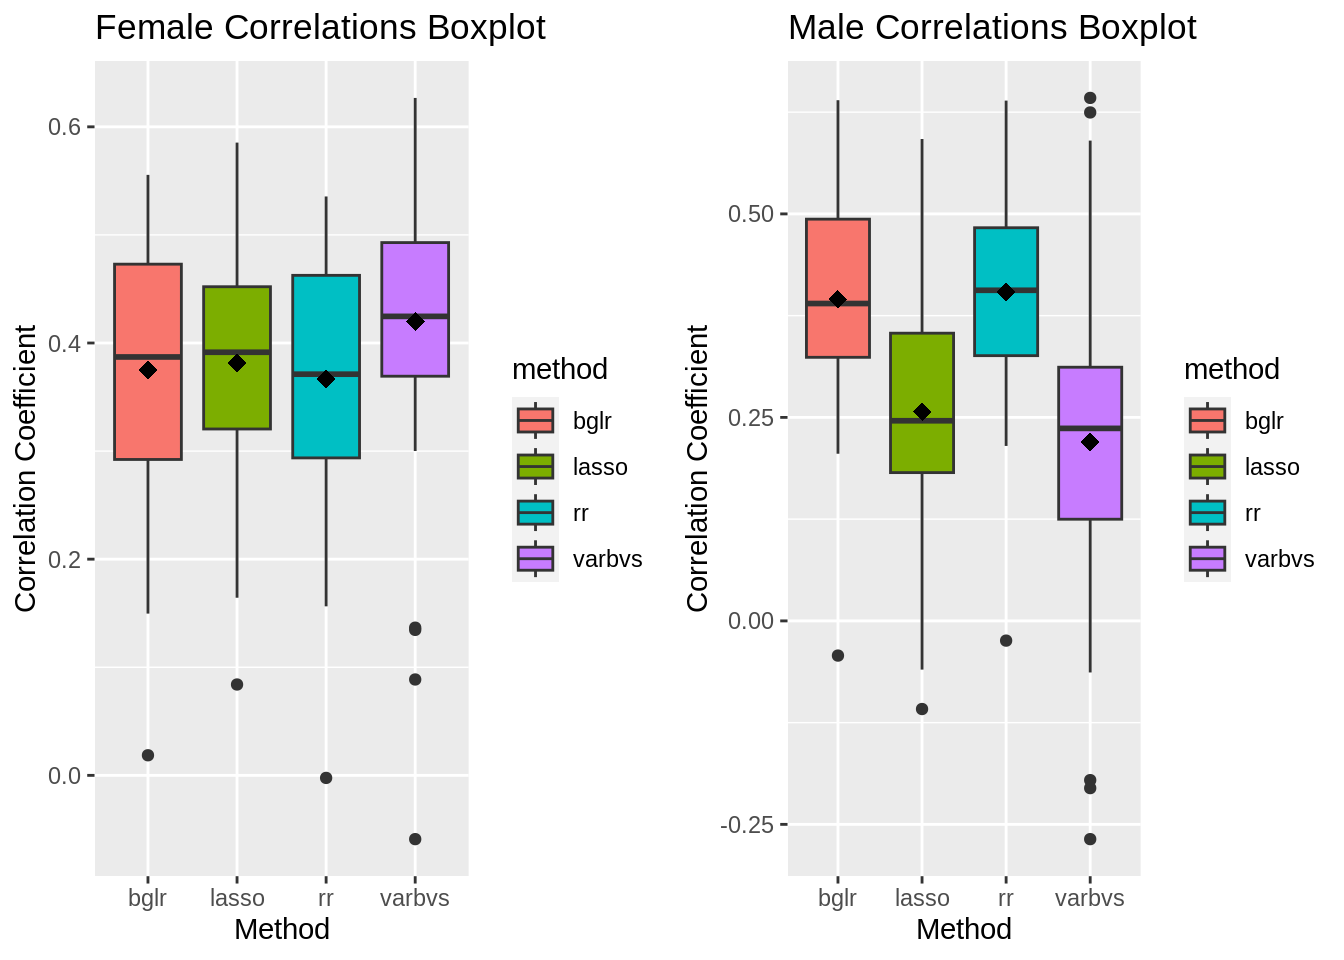
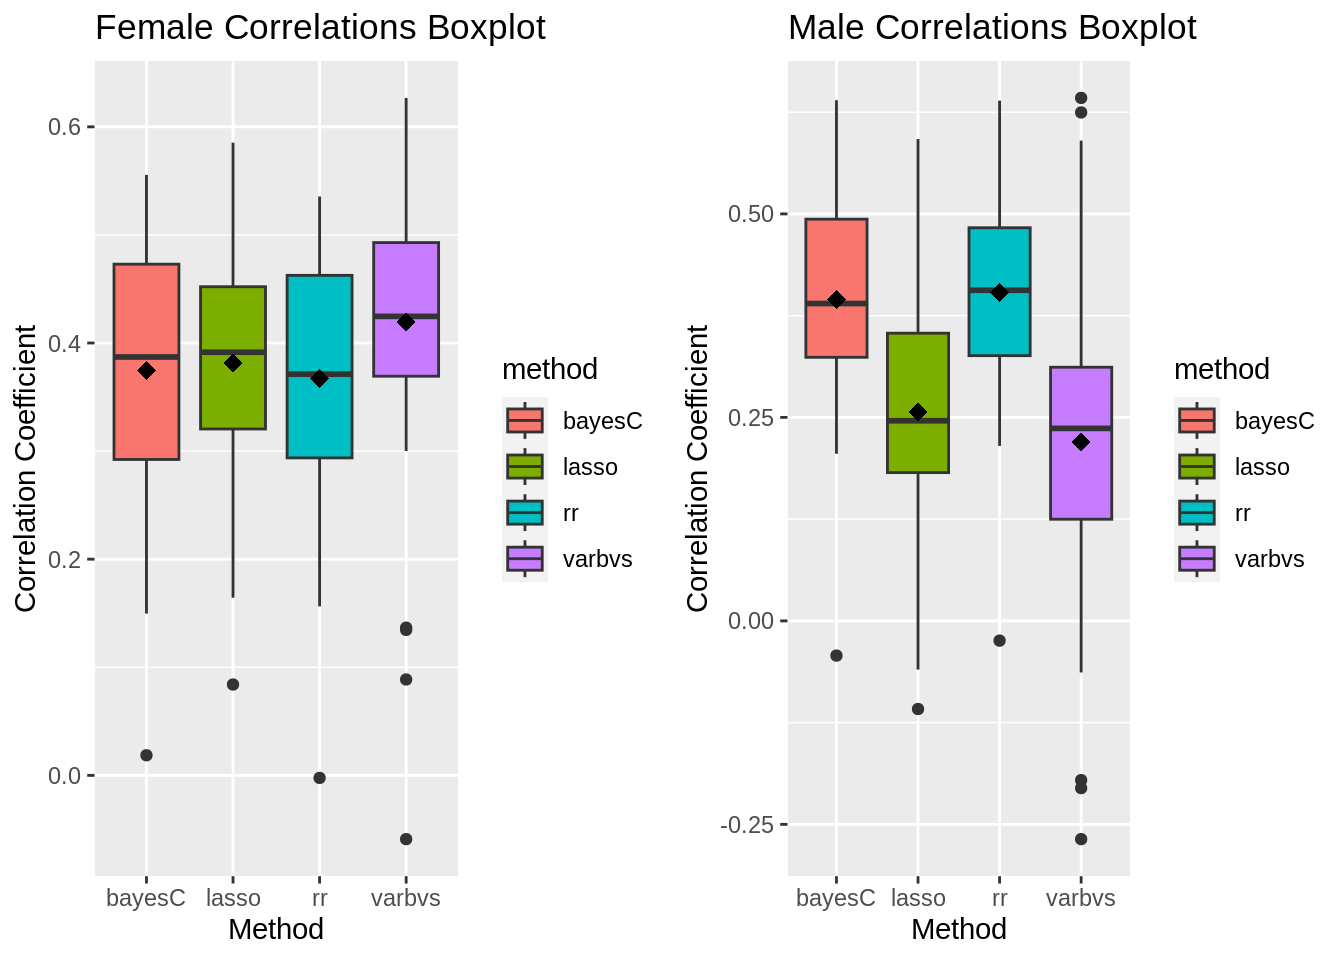
Build site.

diff --git a/docs/methodPred.html b/docs/methodPred.html
@@ -529,15 +529,15 @@ project makes it easier to run your code on other machines.</p>
 <div class="panel panel-default">
 <div class="panel-heading">
 <p class="panel-title">
-<a data-toggle="collapse" data-parent="#workflowr-checks" href="#strongRepositoryversionstrongahrefhttpsgithubcomnklimkodgrpstarvetree39219b9c4e4a1c0cbd74468076075f1bad597b52targetblank39219b9a">
+<a data-toggle="collapse" data-parent="#workflowr-checks" href="#strongRepositoryversionstrongahrefhttpsgithubcomnklimkodgrpstarvetree96f8bdda99f114c71a0ad356c5e1218a01927962targetblank96f8bdda">
 <span class="glyphicon glyphicon-ok text-success"
 aria-hidden="true"></span> <strong>Repository version:</strong>
-<a href="https://github.com/nklimko/dgrp-starve/tree/39219b9c4e4a1c0cbd74468076075f1bad597b52" target="_blank">39219b9</a>
+<a href="https://github.com/nklimko/dgrp-starve/tree/96f8bdda99f114c71a0ad356c5e1218a01927962" target="_blank">96f8bdd</a>
 </a>
 </p>
 </div>
 <div
[2 lines of base64/hex data omitted]
 class="panel-collapse collapse">
 <div class="panel-body">
 <p>
@@ -547,7 +547,7 @@ reproducibility.
 </p>
 <p>
 The results in this page were generated with repository version
-<a href="https://github.com/nklimko/dgrp-starve/tree/39219b9c4e4a1c0cbd74468076075f1bad597b52" target="_blank">39219b9</a>.
+<a href="https://github.com/nklimko/dgrp-starve/tree/96f8bdda99f114c71a0ad356c5e1218a01927962" target="_blank">96f8bdd</a>.
 See the <em>Past versions</em> tab to see a history of the changes made
 to the R Markdown and HTML files.
 </p>
@@ -688,6 +688,40 @@ Message
 </tr>
 </thead>
 <tbody>
+<tr>
+<td>
+Rmd
+</td>
+<td>
+<a href="https://github.com/nklimko/dgrp-starve/blob/96f8bdda99f114c71a0ad356c5e1218a01927962/analysis/methodPred.Rmd" target="_blank">96f8bdd</a>
+</td>
+<td>
+nklimko
+</td>
+<td>
+2023-04-19
+</td>
+<td>
+wflow_publish("analysis/methodPred.Rmd")
+</td>
+</tr>
+<tr>
+<td>
+html
+</td>
+<td>
+<a href="https://rawcdn.githack.com/nklimko/dgrp-starve/057e7acb5918e16c579988a82510db84018fbb0a/docs/methodPred.html" target="_blank">057e7ac</a>
+</td>
+<td>
+nklimko
+</td>
+<td>
+2023-04-19
+</td>
+<td>
+Build site.
+</td>
+</tr>
 <tr>
 <td>
 Rmd
@@ -895,7 +929,7 @@ varbvs &lt;- readRDS(&quot;snake/data/2_cor/varbvs_f_starvation.Rds&quot;)
 
 temp &lt;- c(varbvs, lasso, rr, bglr)
 
-label &lt;- c(rep(&quot;varbvs&quot;, iter), rep(&quot;lasso&quot;, iter), rep(&quot;rr&quot;, iter), rep(&quot;bglr&quot;, iter)) 
+label &lt;- c(rep(&quot;varbvs&quot;, iter), rep(&quot;lasso&quot;, iter), rep(&quot;rr&quot;, iter), rep(&quot;bayesC&quot;, iter)) 
 
 data &lt;- data.table(cor=as.numeric(temp), method=label)
 
@@ -913,7 +947,7 @@ rr &lt;- readRDS(&quot;snake/data/2_cor/rr_m_starvation.Rds&quot;)
 varbvs &lt;- readRDS(&quot;snake/data/2_cor/varbvs_m_starvation.Rds&quot;)
 
 temp &lt;- c(varbvs, lasso, rr, bglr)
-label &lt;- c(rep(&quot;varbvs&quot;, iter), rep(&quot;lasso&quot;, iter), rep(&quot;rr&quot;, iter), rep(&quot;bglr&quot;, iter)) 
+label &lt;- c(rep(&quot;varbvs&quot;, iter), rep(&quot;lasso&quot;, iter), rep(&quot;rr&quot;, iter), rep(&quot;bayesC&quot;, iter)) 
 data &lt;- data.table(cor=as.numeric(temp), method=label)
 
 gg[[4]] &lt;- ggplot(data, aes(x=method, y=cor, fill=method)) +
@@ -926,6 +960,43 @@ gg[[4]] &lt;- ggplot(data, aes(x=method, y=cor, fill=method)) +
 <h3>Correlation Coefficient Boxplots</h3>
 <pre class="r"><code>plot_grid(gg[[3]],gg[[4]], ncol=2)</code></pre>
 <p><img src="figure/methodPred.Rmd/plot-print-1.png" width="672" style="display: block; margin: auto;" /></p>
+<p>
+<button type="button" class="btn btn-default btn-xs btn-workflowr btn-workflowr-fig" data-toggle="collapse" data-target="#fig-plot-print-1">
+Past versions of plot-print-1.png
+</button>
+</p>
+<div id="fig-plot-print-1" class="collapse">
+<div class="table-responsive">
+<table class="table table-condensed table-hover">
+<thead>
+<tr>
+<th>
+Version
+</th>
+<th>
+Author
+</th>
+<th>
+Date
+</th>
+</tr>
+</thead>
+<tbody>
+<tr>
+<td>
+<a href="https://github.com/nklimko/dgrp-starve/blob/057e7acb5918e16c579988a82510db84018fbb0a/docs/figure/methodPred.Rmd/plot-print-1.png" target="_blank">057e7ac</a>
+</td>
+<td>
+nklimko
+</td>
+<td>
+2023-04-19
+</td>
+</tr>
+</tbody>
+</table>
+</div>
+</div>
 <br>
 <p>
 <button type="button" class="btn btn-default btn-workflowr btn-workflowr-sessioninfo" data-toggle="collapse" data-target="#workflowr-sessioninfo" style="display: block;">
